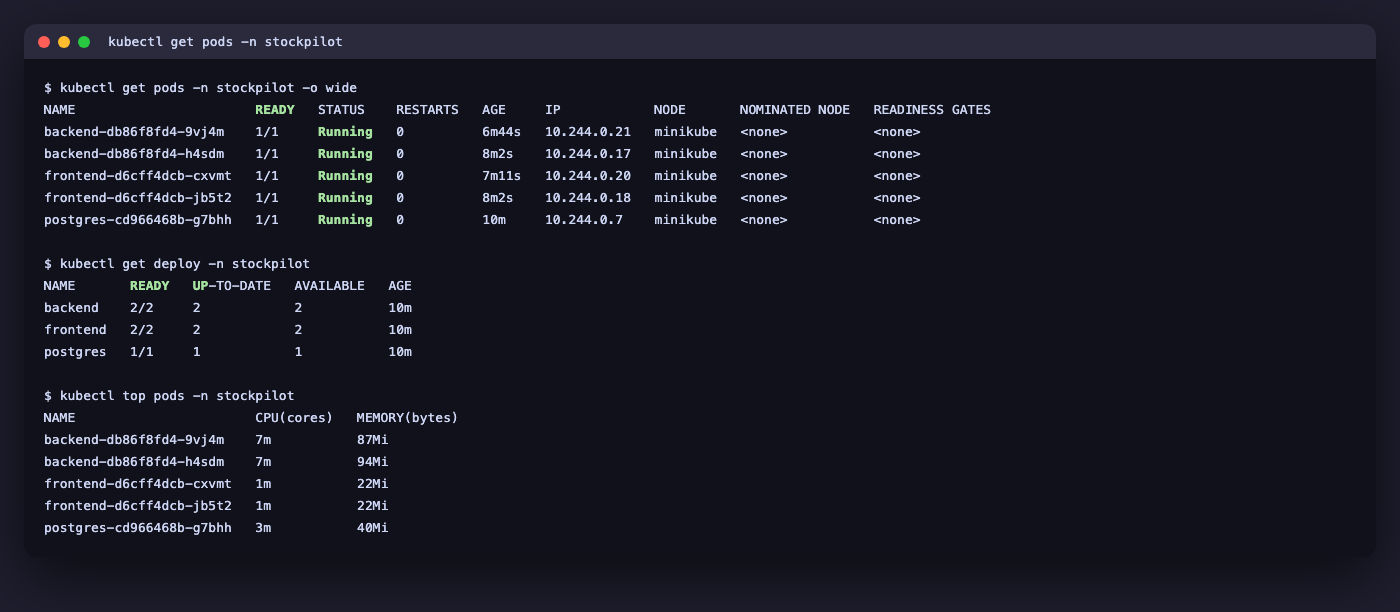
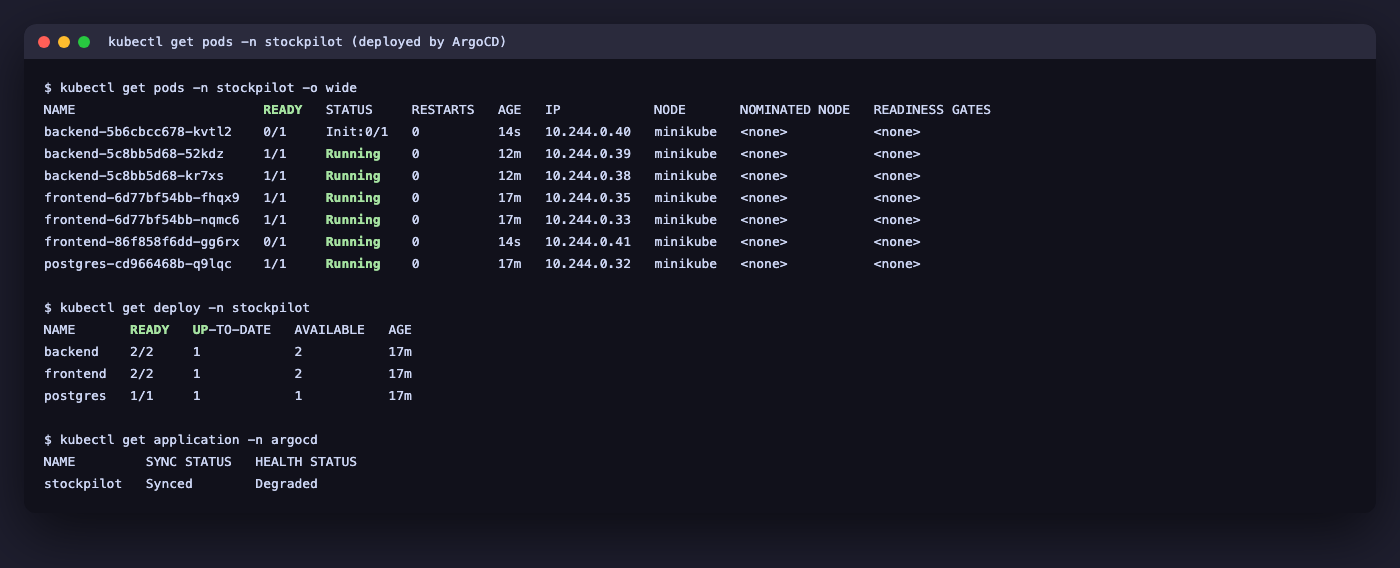
docs: add ArgoCD CLI evidence and refresh pod screenshot

Changed region(s): [[0.0, 0.0599, 0.9829, 0.868], [0.6143, 0.419, 0.6757, 0.4789]]

diff --git a/docs/screenshots/README.md b/docs/screenshots/README.md
@@ -12,5 +12,5 @@
 | M7 Terraform | `12-terraform-plan.png`, `12b-terraform-apply.png`, `13-aws-vpc.png`, `14-aws-eks.png`, `15-terraform-destroy.png` | *(captured on AWS day — see docs/DEMO-RUNBOOK.md)* |
 | M8 Kubernetes | `16-kubectl-get-pods-minikube.png`, `17-kubectl-get-svc-ingress-minikube.png`, `18-helm-list-minikube.png`, `19-app-via-ingress-minikube.png` | 2+2 replicas Running, ClusterIP services, Ingress routes, app via Ingress (minikube rehearsal; EKS versions added on AWS day) |
 | M8 HPA | `24-kubectl-get-hpa-minikube.png` | HPA on backend CPU |
-| ArgoCD | `23-argocd-synced.png`, `23b-argocd-app-cli.png` | Application Synced / Healthy, automated sync + prune + selfHeal |
+| ArgoCD | `23-argocd-synced.png`, `23b-argocd-app-cli.png`, `23c-argocd-ui.png` | `argocd app get` + kubectl: Synced / Healthy, automated sync + prune + selfHeal (minikube); `23c` = ArgoCD web UI captured on AWS day |
 | M9 Observability | `20-curl-metrics.png`, `21-prometheus-targets-up.png`, `22-grafana-dashboard.png` | `/metrics` output, Prometheus target UP (2/2), Grafana panels with live traffic |
